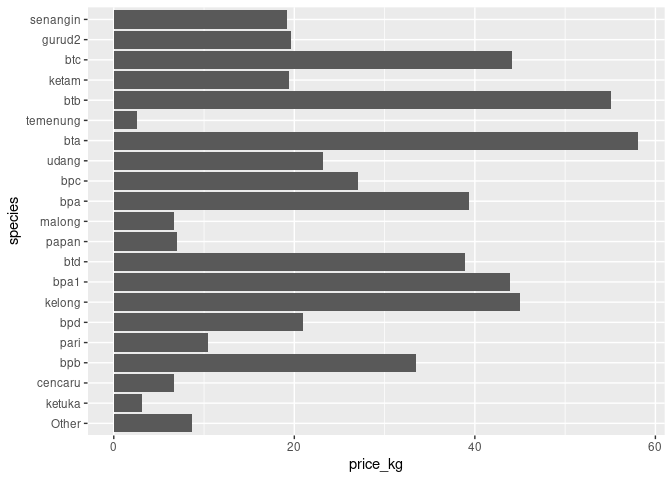
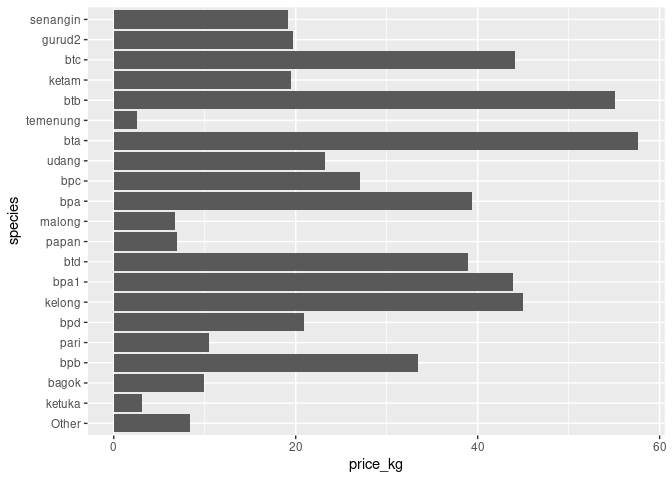
Update to updated sheet

diff --git a/README.md b/README.md
@@ -13,7 +13,7 @@ trip_summary <- landings_clean %>%
     fisher = dplyr::first(fisher), 
     total_price = sum(total_price), 
     weight_kg = sum(weight_kg),
-    n_species = dplyr::n_distinct(species))
+    n_species = dplyr::n_distinct(common_malay))
 
 fisher_summary <- landings_clean %>%
   dplyr::group_by(fisher) %>%
@@ -23,10 +23,10 @@ fisher_summary <- landings_clean %>%
     last_trip = max(date),
     total_price = sum(total_price), 
     weight_kg = sum(weight_kg),
-    n_species = dplyr::n_distinct(species))
+    n_species = dplyr::n_distinct(common_malay))
 ```
 
-Between 01 September 2019 and 19 September 2020 we recorded 188 trips by
+Between 01 September 2019 and 19 September 2020 we recorded 187 trips by
 35 fishers. During this time, GPS trackers were installed in 3 boats.
 
 ``` r
@@ -54,7 +54,7 @@ fisher_summary %>%
 ``` r
 species_summary <- landings_clean %>%
   dplyr::filter(!is.na(price_kg)) %>%
-  dplyr::mutate(species = forcats::fct_lump_n(species, w = price_kg*weight_kg, n = 20)) %>%
+  dplyr::mutate(species = forcats::fct_lump_n(common_malay, w = price_kg*weight_kg, n = 20)) %>%
   dplyr::group_by(species) %>%
   dplyr::summarise(
     frequency = dplyr::n_distinct(trip_id), 
@@ -106,7 +106,5 @@ trip_summary %>%
   ggplot(aes(x = date, y = total_price)) +
   geom_point(aes(colour = fisher))
 ```
-
-    ## Warning: Removed 1 rows containing missing values (geom_point).
 
 ![](README_files/figure-gfm/unnamed-chunk-6-2.png)<!-- -->
